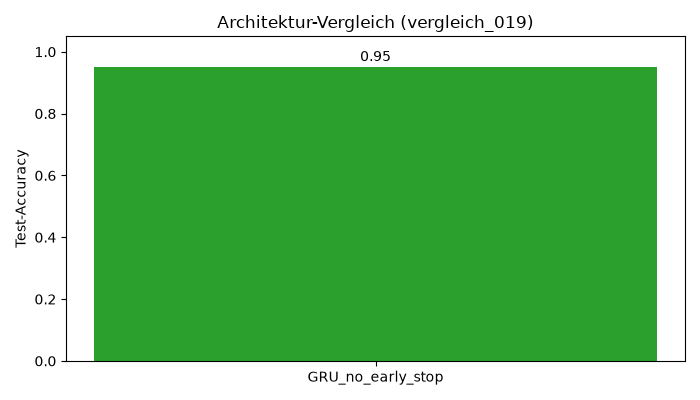
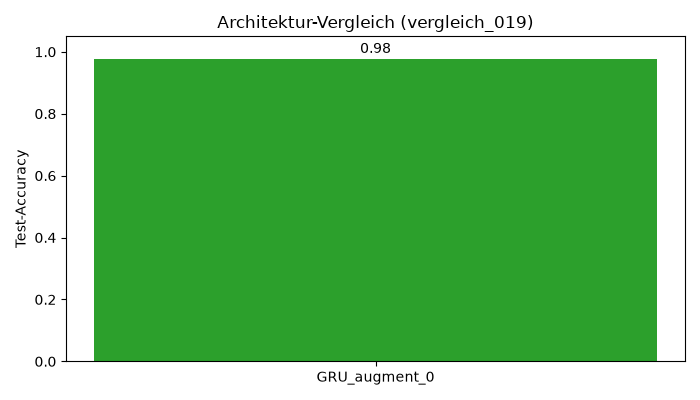
final training

diff --git a/augment_dataset.py b/augment_dataset.py
@@ -34,8 +34,8 @@ SCALE = 400
 # -------------------------------------------------------------
 
 def augment_sequence(sequence,
-                     min_zoom=0.5,
-                     max_zoom=2):
+                     min_zoom=0.95,
+                     max_zoom=1.05):
 
     augmented = sequence.copy()
 

diff --git a/train_model.py b/train_model.py
@@ -326,7 +326,7 @@ def baue_modell_cnn(sequenz_laenge, feature_dim, anzahl_klassen):
 
 # Registry: neue Architekturen koennen hier einfach ergaenzt werden.
 MODELL_VARIANTEN = {
-    "GRU_no_early_stop": (baue_modell_gru_mittel, 0.0005, 16, 20),
+    "GRU_augment_0": (baue_modell_gru_mittel, 0.0005, 16, 20),
     #"GRU_pat_30": (baue_modell_gru_mittel, 0.0005, 16, 30),
     #"GRU_pat_40": (baue_modell_gru_mittel, 0.0005, 16, 40),
     #"lstm": baue_modell_lstm,